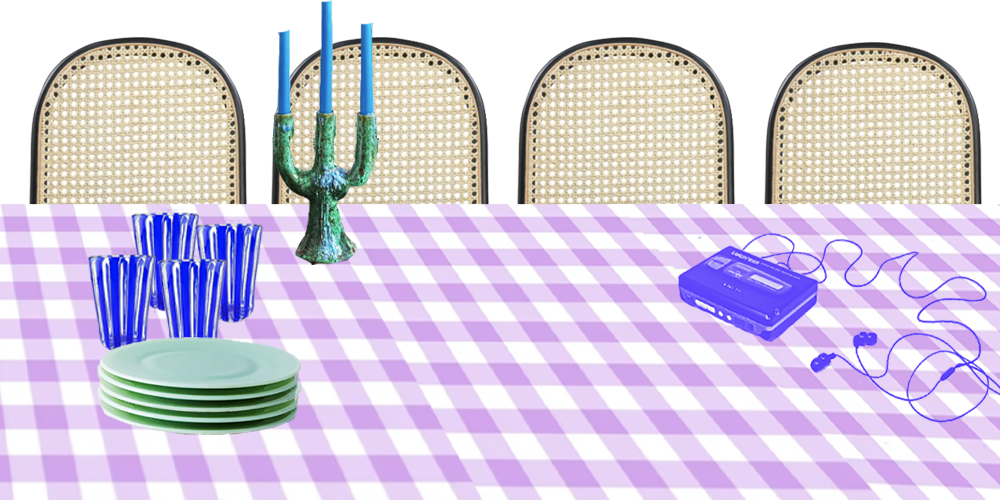
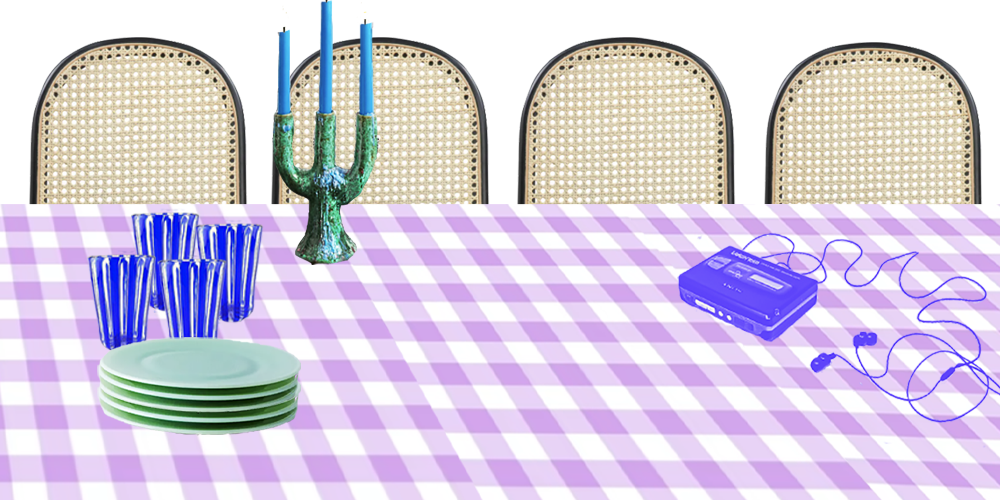
Adjusted candle image and set nighttime setting to 6:30

Changed region(s): [[0.279, 0.24, 0.372, 0.54]]

diff --git a/index.html b/index.html
@@ -205,8 +205,9 @@
 		<script>
 			<!--
 			function getStylesheet() {
-				  var currentTime = new Date().getHours();
-				  if (0 <= currentTime&&currentTime < 7) {
+				  var currentHour = new Date().getHours() * 60;
+				  var currentTime = new Date().getMinutes() + currentHour
+				  if (0 <= currentTime&&currentTime < 420) {
 					document.write("<link rel='stylesheet' href='styles/night.css' type='text/css'>");
 					const table_image = document.getElementById('table');
 					table_image.src = './images/scene/set_table_desktop.png';
@@ -215,10 +216,10 @@
 					const window_image = document.getElementById('window');
 					window_image.src = './images/scene/nighttime_window_alone.png';
 				  }
-				  if (7 <= currentTime&&currentTime < 20) {
+				  if (420 <= currentTime&&currentTime < 1110) {
 					document.write("<link rel='stylesheet' href='styles/style.css' type='text/css'>");
 				  }
-				  if (20 <= currentTime&&currentTime <= 24) {
+				  if (1110 <= currentTime&&currentTime <= 1440) {
 					document.write("<link rel='stylesheet' href='styles/night.css' type='text/css'>");
 					const table_image = document.getElementById('table');
 					table_image.src = './images/scene/set_table_desktop.png';
